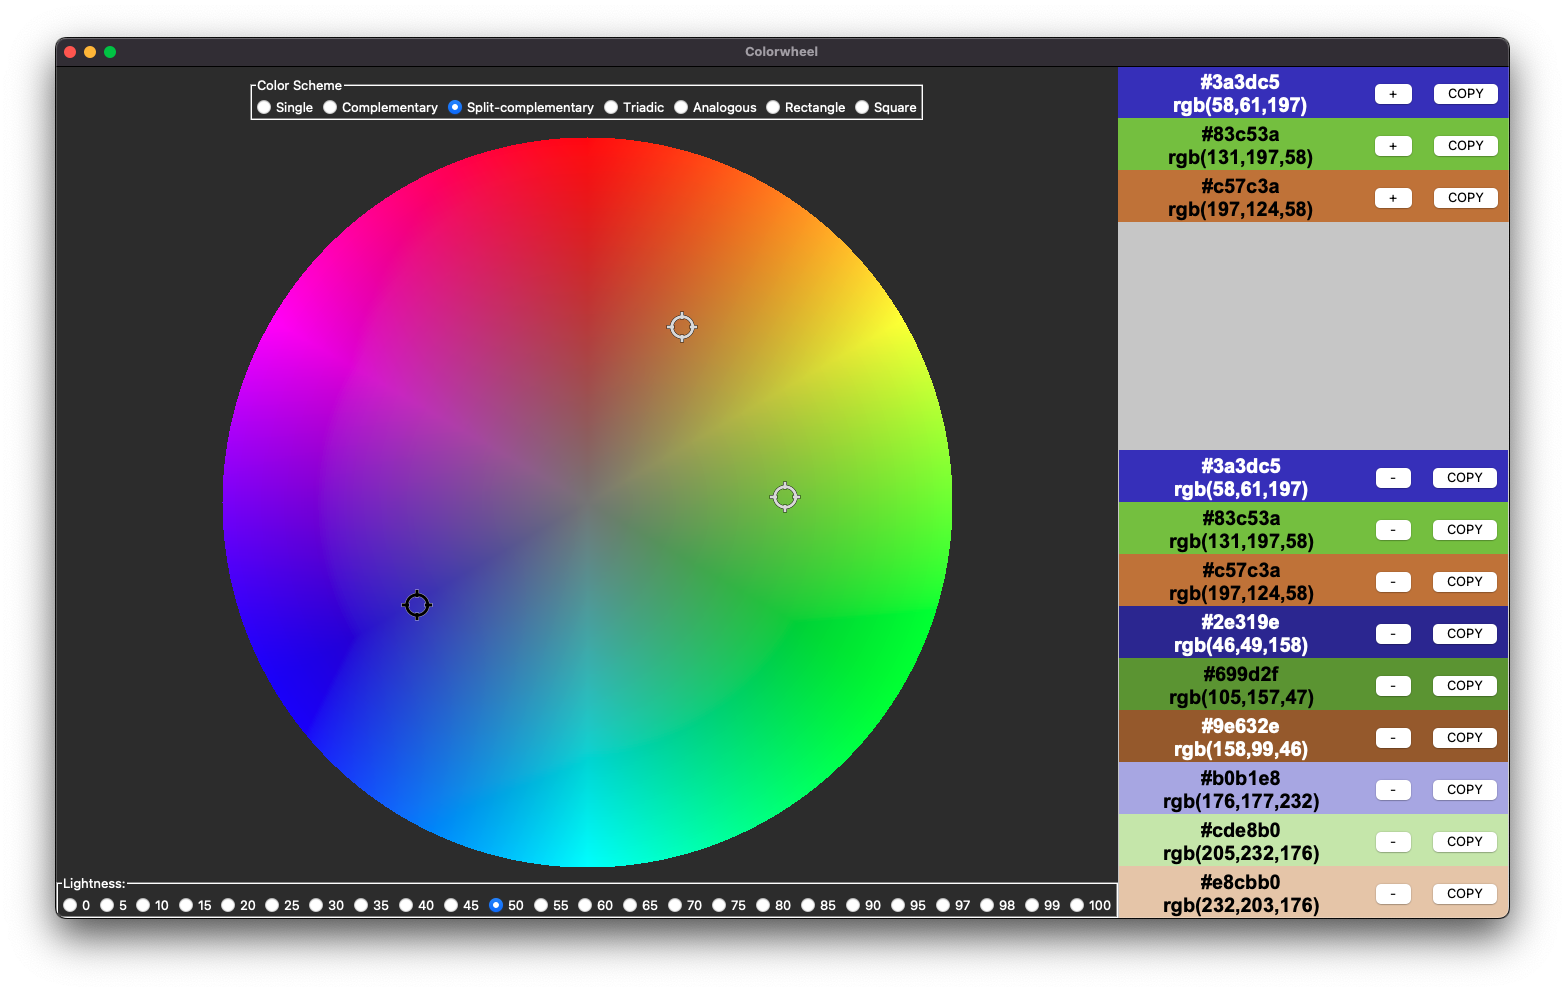
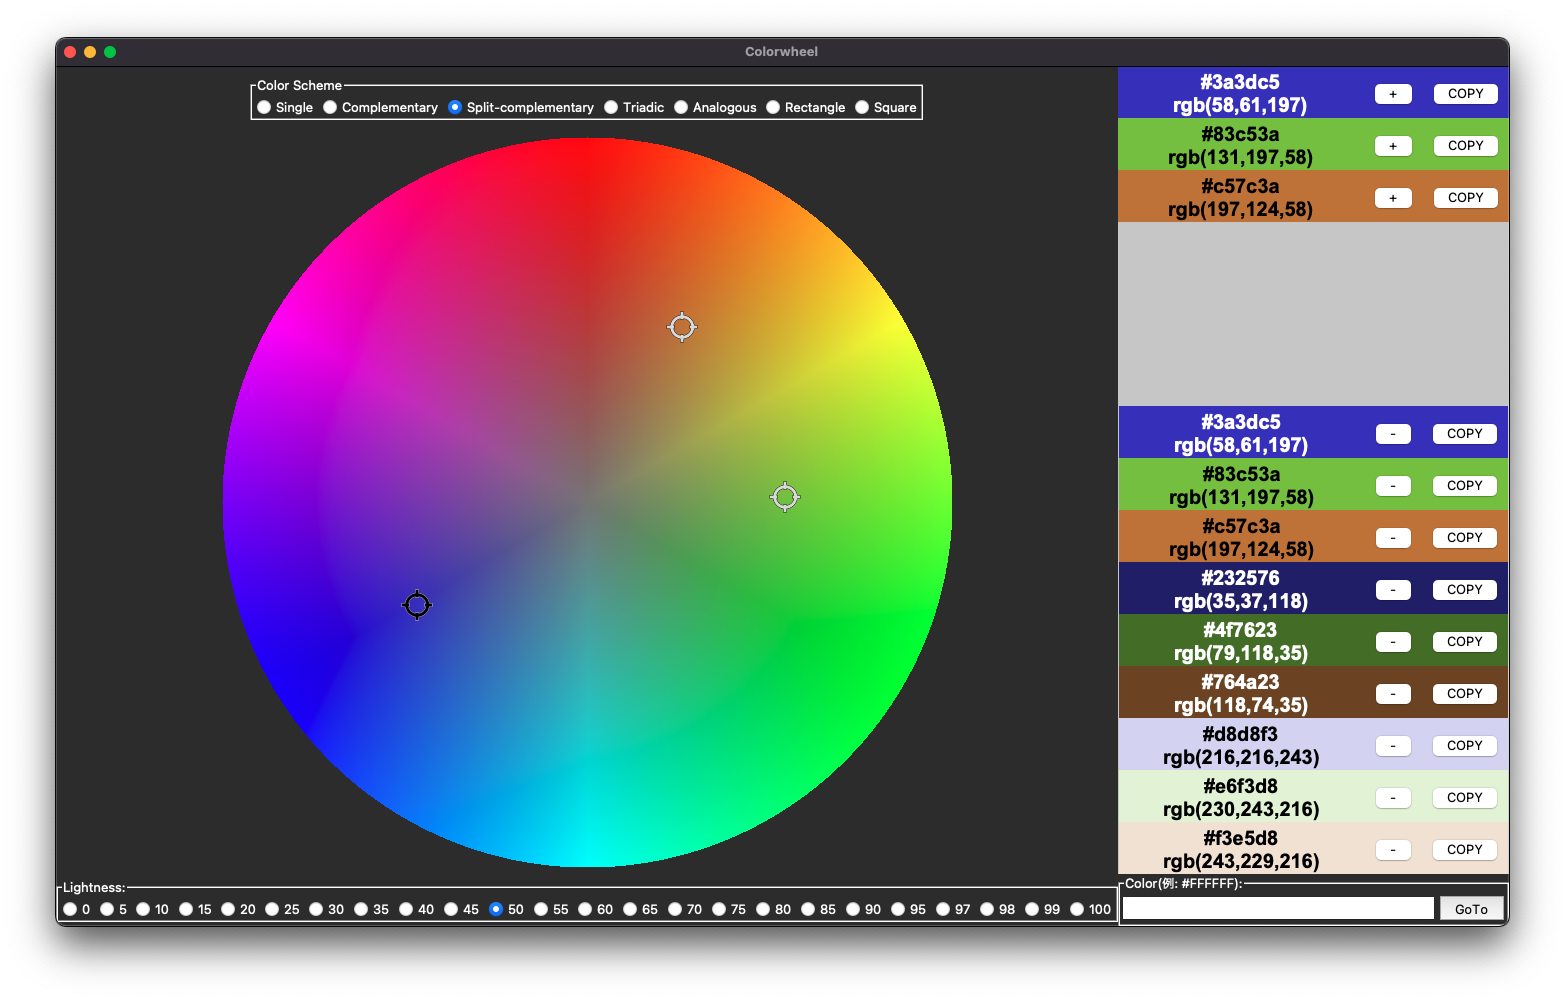
feat: RGB16進文字列に対応する場所にカーソルを移動可能に (fix #22)
指定色から配色パターンを検討できるようにするため、
指定したRGB16進文字列(例: #FFFFFF)に対応する
場所および輝度にカーソルを移動可能にした

diff --git a/color_wheel.py b/color_wheel.py
@@ -6,6 +6,7 @@
 
 """
 import tkinter as tk
+import colorsys
 import copy
 import math
 import glob
@@ -266,10 +267,22 @@ class ColorWheel:
         self.color_frame.pack(side=tk.TOP)
         self.color_frame_list = []
 
+        self.input_frame = tk.LabelFrame(self.root, text="Color(例: #FFFFFF):")
+        self.input_frame.grid(row=2, column=1, sticky=tk.EW)
+        self.input_var = tk.StringVar()
+        self.input_entry = tk.Entry(self.input_frame, textvariable=self.input_var)
+        self.input_entry.pack(side=tk.LEFT, expand=1, fill=tk.X)
+        self.input_entry["bg"] = "white"
+        self.input_entry["fg"] = "black"
+        self.input_entry["insertbackground"] = "black"
+        self.input_button = tk.Button(self.input_frame, text="GoTo", command=self.on_goto_clicked)
+        self.input_button.pack(side=tk.RIGHT, ipady=1, pady=1)
+
         self.group_frame.grid(row=0, column=0, pady=10)
         frame_canvas.grid(row=1, column=0)
-        self.frame_right.grid(row=0, column=1, rowspan=3, sticky=tk.N + tk.S)
+        self.frame_right.grid(row=0, column=1, rowspan=2, sticky=tk.N + tk.S)
         frame_bottom.grid(row=2, column=0, sticky=tk.W + tk.E)
+        self.frame_right["bg"] = "#cdcdcd"
 
     def redraw(self):
         # clear the canvas and redraw
@@ -289,8 +302,6 @@ class ColorWheel:
 
         font_color = ColorFrame.get_font_color(rgb_color)
         self.color_frame.update_color(rgb_color, font_color)
-        # self.frame_right["bg"] = ColorFrame.format_to_hexstr(*rgb_color)
-        self.frame_right["bg"] = "#cdcdcd"
 
         for idx, pos in enumerate(self.color_cursor.other_positions):
             rgb_color = self.get_wheel_color(*pos)
@@ -366,8 +377,35 @@ class ColorWheel:
         self.redraw()
         self.update_color()
 
+    def on_goto_clicked(self):
+        val = self.input_var.get()
+        if result := re.match(r"#([0-9a-f]{2})([0-9a-f]{2})([0-9a-f]{2})", val):
+            r = int(result.group(1), 16)
+            g = int(result.group(2), 16)
+            b = int(result.group(3), 16)
+            hls = colorsys.rgb_to_hls(r / 0xFF, g / 0xFF, b / 0xFF)
+            x, y = self.get_color_pos(hls)
+            self.input_var.set("")
+            self.input_entry["bg"] = "white"
+            self.brightness_var.set(round(hls[1], 2))
+            self.brightness = self.val2key(float(hls[1]))
+
+            self.color_cursor.update_all_positions(x, y)
+            self.redraw()
+            self.update_color()
+        else:
+            self.input_entry["bg"] = "#ffcccc"
+
     def val2key(self, val):
         return "{:0.2f}".format(val)
+
+    def get_color_pos(self, hls):
+        rad = (hls[0] * math.pi * 2) - math.pi / 2
+        rx = int(math.cos(rad) * self.wheel_radius * hls[2])
+        ry = int(math.sin(rad) * self.wheel_radius * hls[2])
+        x = rx + self.wheel_radius - self.wheel_offset[0]
+        y = ry + self.wheel_radius - self.wheel_offset[1]
+        return (x, y)
 
 
 if __name__ == "__main__":

diff --git a/README.ja.md b/README.ja.md
@@ -16,12 +16,14 @@ python3 color_wheel.py
 
 - また、配色パターンのラジオボタンを選択すると、点線のカーソルが追加され、関連する色情報もあわせて右側の領域に表示します。
 
-- 画面下部の"Brightness"スライダーを変更するとカラーホイールの輝度を変えれます。
+- 画面下部の"Lightness"ラジオボタンを変更するとカラーホイールの輝度を変えれます。
 
 - 気に入った色は、色情報の「＋」ボタンで画面に下側にストックすることができます。
 - ストックされた色は、色情報の「−」ボタンで削除できます。
 
 - 色情報の「COPY」ボタンを押すと、RGB16進数表記の値(例: #000000)をクリップボードにコピーします。
+
+- 入力したRGB16進数に該当する場所にカーソルを移動します。
 
 ![](screenshot.png)
 

diff --git a/README.md b/README.md
@@ -22,10 +22,11 @@ poetry run python3 color_wheel.py
 
 - Display the color(s) selected by the cursor(s) in the top right corner of the screen
 - Add (or Delete) cursors when radio button is changed in "Color Scheme"
-- Change brightness of the color wheel when brightness slider has changed
+- Change lightness of the color wheel when "Lightness" rudio buttons has changed
 - Copy the color to the bottom right corner of the screen when the "+" button of the color in the upper right corner of the screen has pressed
 - Delete the color from the bottom right corner of the screen when the "-" button of the copied color has pressed
 - Copy the RGB hex value (e.g. #000000) to the clipboard when "COPY" button of any colors pressed
+- Move the cursor to the location corresponding to the RGB hexadecimal string
 
 ![](screenshot.png)
 
